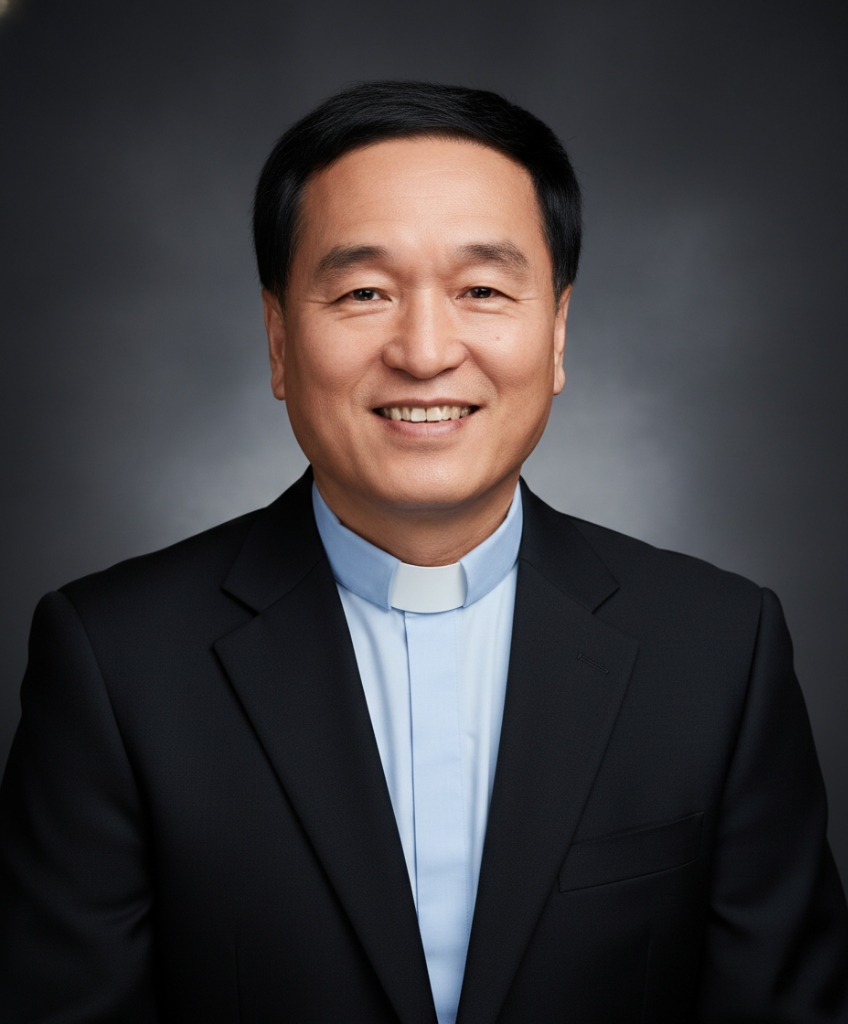
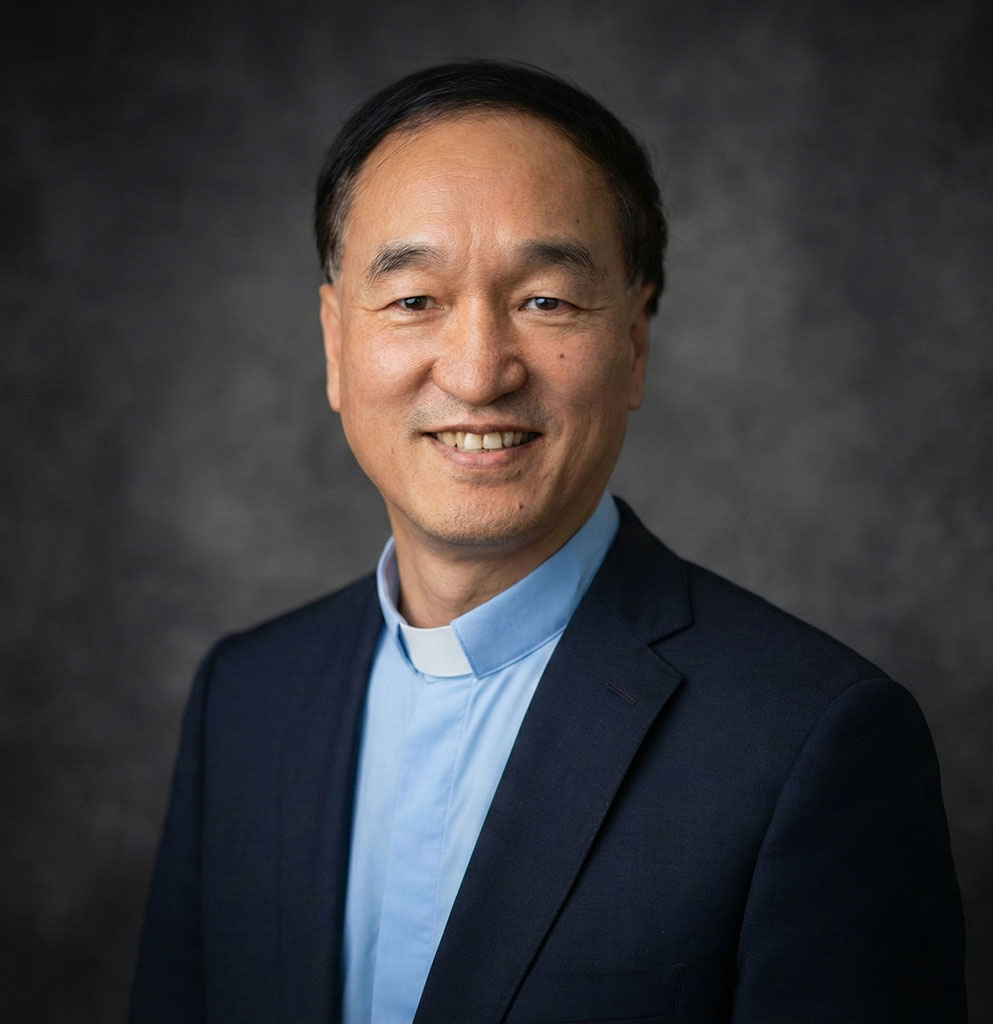
feat: update footer credits and pastor images

diff --git a/src/components/beliefs/HistoryTimeline.tsx b/src/components/beliefs/HistoryTimeline.tsx
@@ -105,7 +105,7 @@ export default function HistoryTimeline() {
                                 如今，至2023年10月為此，長堤基督教會在龔牧師的帶領之下，已為主開拓兩間教會，分別是於2015年在奧克蘭木槿灣地區成立「木槿灣基督教會」以及於2019年在奧克蘭長灣地區成立「長灣基督教會」。
                             </p>
                             <p className="text-gray-700 dark:text-gray-200 text-justify indent-[2em] leading-relaxed tracking-wider">
-                                龔牧師在2023年長堤基督教會成立二十週年之際，為整體教會立下三大目標：（1）活潑感人的主日崇拜與講道（2）家庭小組的牧養關懷系統（3）教會整體傳福音的動力並決議採用以「牧者團隊」的體制帶領全體教會一同繼續前進。這牧養體制不但符合紐西蘭當地的教會文化，也能提供實際的牧養需要與關怀幫助會友一同在神的家中茁壯成長。
+                                龔牧師在2023年長堤基督教會成立二十週年之際，為整體教會立下三大目標：<br />&nbsp;&nbsp;&nbsp;&nbsp;（1）活潑感人的主日崇拜與講道<br />&nbsp;&nbsp;&nbsp;&nbsp;（2）家庭小組的牧養關懷系統<br />&nbsp;&nbsp;&nbsp;&nbsp;（3）教會整體傳福音的動力並決議採用以「牧者團隊」的體制帶領全體教會一同繼續前進。<br />&nbsp;&nbsp;&nbsp;&nbsp;這牧養體制不但符合紐西蘭當地的教會文化，也能提供實際的牧養需要與關怀幫助會友一同在神的家中茁壯成長。
                             </p>
                             <p className="text-gray-700 dark:text-gray-200 text-justify indent-[2em] leading-relaxed tracking-wider">
                                 基於此體制與美國台福總會相左，在經過牧者團隊的深思熟慮後決定於2023年10月22日正式離開美國台福總會體制，並加入「長堤牧養系統」藉著聖靈的引領由牧者團隊選出合神心意、願意絕對順服上帝且具有屬靈權柄的基督徒領袖和牧者團隊一同牧養長堤基督教會。

diff --git a/src/components/long-bay/LongBayIntro.tsx b/src/components/long-bay/LongBayIntro.tsx
@@ -41,7 +41,7 @@ const timeline: TimelineEvent[] = [
 
 export const LongBayIntro = () => {
     return (
-        <section className="w-full py-12 bg-white">
+        <section className="w-full pt-12 pb-6 bg-white">
             <div className="max-w-[1024px] mx-auto px-4 md:px-10">
                 {/* Background Story */}
                 <div className="mb-12">
@@ -53,18 +53,18 @@ export const LongBayIntro = () => {
                     </div>
 
                     <div className="bg-blue-50 rounded-xl p-6 md:p-8 mb-8">
-                        <p className="text-gray-700 leading-relaxed text-base">
+                        <p className="text-gray-700 leading-relaxed text-base indent-[2em]">
                             長灣地區距離紐西蘭奧克蘭市中心向北行駛30分鐘，有著一條長達一公里的沙灘及一座地區公園（Long Bay Regional Park）。這裡不但地理位置十分優越、自然風光迷人，更是紐西蘭政府重點發展的潛力地區之一。
                         </p>
-                        <p className="text-gray-700 leading-relaxed text-base mt-4">
+                        <p className="text-gray-700 leading-relaxed text-base indent-[2em] mt-4">
                             因此，龔牧師秉持著神所賜下的異象，要在這上好的土地為主圖謀大事，搶救百萬靈魂！
                         </p>
                     </div>
                 </div>
 
                 {/* Timeline */}
-                <div className="mb-12">
-                    <h3 className="text-2xl font-black text-[#111418] mb-12 text-center">發展歷程</h3>
+                <div>
+                    <h3 className="text-4xl font-black text-[#111418] mb-12 text-center">發展歷程</h3>
                     <div className="max-w-4xl mx-auto space-y-12">
                         {timeline.map((yearGroup, index) => (
                             <div key={yearGroup.year} className="flex flex-col md:flex-row gap-8 items-start">

diff --git a/src/components/hibiscus-coast/ChurchHistory.tsx b/src/components/hibiscus-coast/ChurchHistory.tsx
@@ -65,12 +65,12 @@ export const ChurchHistory = () => {
                     </div>
 
                     <div className="bg-gray-50 rounded-xl p-6 md:p-8 mb-8">
-                        <p className="text-gray-700 leading-relaxed text-base">
+                        <p className="text-gray-700 leading-relaxed text-base indent-[2em] text-justify">
                             木槿灣地區距離長堤母會向北行駛20分鐘。當時北岸地區，特別是Albany一帶房價飆升，居住成本過高，
                             許多新舊移民與華人紛紛遷往新興社區如Silverdale、Millwater等購地自建。政府積極推動當地的造鎮計畫，
                             大型商場、學校都已具雛型。其中Kingsway小學隸屬於基督教小學，風評極好，吸引大量華人家長青睞。
                         </p>
-                        <p className="text-gray-700 leading-relaxed text-base mt-4">
+                        <p className="text-gray-700 leading-relaxed text-base mt-4 indent-[2em] text-justify">
                             龔牧師領受上帝的異象，看見這地區的需要，深感華人移民眾多卻沒有一間華人教會，就為此迫切禱告。
                         </p>
                     </div>
@@ -78,7 +78,7 @@ export const ChurchHistory = () => {
 
                 {/* Timeline */}
                 <div className="mb-12">
-                    <h3 className="text-2xl font-black text-[#111418] mb-6 text-center">發展歷程</h3>
+                    <h3 className="text-4xl font-black text-[#111418] mb-6 text-center">發展歷程</h3>
                     <div className="relative">
                         {/* Timeline line */}
                         <div className="absolute left-8 md:left-1/2 top-0 bottom-0 w-0.5 bg-emerald-200 transform md:-translate-x-1/2" />

diff --git a/src/components/layout/Footer.tsx b/src/components/layout/Footer.tsx
@@ -69,7 +69,8 @@ export const Footer = () => {
 
                 <div className="border-t border-gray-800 pt-8 mt-8 text-center">
                     <p className="text-sm text-gray-500">
-                        Copyright © 2026 長堤基督教會. All Rights Reserved.
+                        Copyright © 2026 長堤基督教會. All Rights Reserved.<br />
+                        Website design, development & maintenance by Xu Ran.
                     </p>
                 </div>
             </Container>

diff --git a/src/components/long-bay/LongBayMeetingInfo.tsx b/src/components/long-bay/LongBayMeetingInfo.tsx
@@ -16,7 +16,7 @@ const contacts: ContactPerson[] = [
 
 export const LongBayMeetingInfo = () => {
     return (
-        <section className="w-full py-12 bg-[#f6f7f8]">
+        <section className="w-full pt-10 pb-12 bg-[#f6f7f8]">
             <div className="max-w-[1024px] mx-auto px-4 md:px-10">
                 <div className="flex flex-col gap-4 mb-8 text-center">
                     <h2 className="text-[#111418] text-4xl font-black leading-tight">
